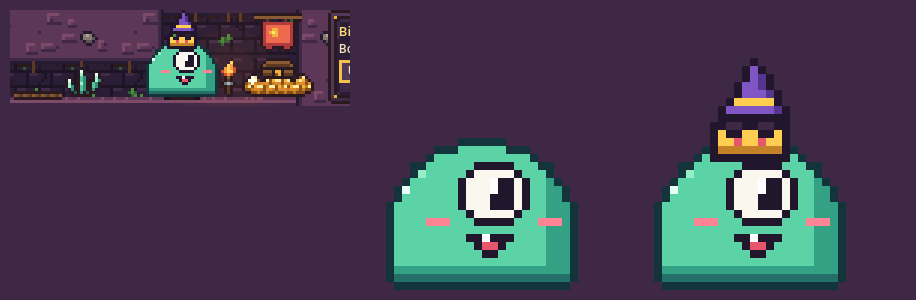
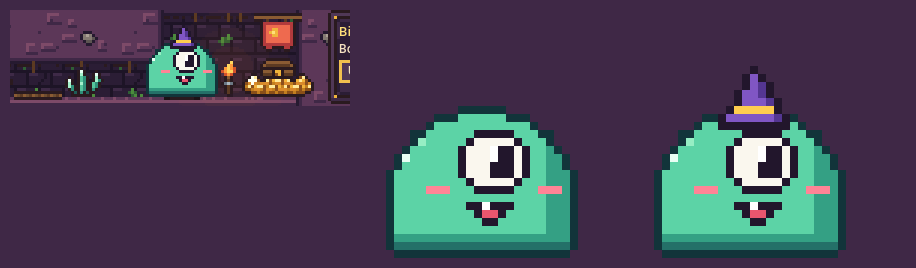
Daan: Gloop groot met alleen de grote puntmuts (kroon las als gezichtje), kijker ronde 4 letterlijk, logboek
Claude-Session: https://claude.ai/code/session_01RMWUyjPAKeKv44onfpL7sx

Changed region(s): [[0.0, 0.0299, 0.3974, 0.4179], [0.7031, 0.1791, 0.9476, 0.9851], [0.3974, 0.3881, 0.6419, 0.9851]]

diff --git a/ontwerp/steam/gloop/maak_kijker.py b/ontwerp/steam/gloop/maak_kijker.py
@@ -12,7 +12,7 @@ os.makedirs(os.path.join(HIER, 'kijker'), exist_ok=True)
 for k, c in crops.items():
     g = oud if k == 'nu' else (lambda q: q.crop((0, 0, q.width // 6, q.height)))(Image.open(os.path.join(HIER, f'gloop_{k}.png')))
     import maak_gloop as mg
-    t = mb.met_toren(g, [mg.hoed_beeld('kroon'), mg.hoed_beeld('puntmuts')], 2) if k == 'B' else mb.met_toren(g, keuze, 3)
+    t = mb.met_toren(g, [mg.hoed_beeld('puntmuts')], 1) if k == 'B' else mb.met_toren(g, keuze, 3)
     big = [x.resize((x.width * 8, x.height * 8), Image.NEAREST) for x in (g, t)]
     out = Image.new('RGB', (W + 40 + sum(b.width for b in big) + 40, max(H, max(b.height for b in big)) + 20), (63, 40, 70))
     out.paste(c, (10, 10)); x = W + 30

diff --git a/ontwerp/steam/gloop/maak_blad.py b/ontwerp/steam/gloop/maak_blad.py
@@ -37,7 +37,7 @@ def blad():
     for v, naam in (("A", "A druppel"), ("B", "B groot"), ("C", "C gelei")):
         s = Image.open(os.path.join(HIER, f"gloop_{v}.png"))
         fw = s.width // 6; fh = s.height; rust = s.crop((0, 0, fw, fh)); hap = s.crop((4 * fw, 0, 5 * fw, fh)); kauw = s.crop((5 * fw, 0, 6 * fw, fh))
-        toren = met_toren(rust, [mg.hoed_beeld("kroon"), mg.hoed_beeld("puntmuts")], 2) if v == "B" else met_toren(rust, keuze, 3)
+        toren = met_toren(rust, [mg.hoed_beeld("puntmuts")], 1) if v == "B" else met_toren(rust, keuze, 3)
         kol.append((naam, [rust, hap, kauw, toren]))
     W = 1500; H = 900
     out = Image.new("RGB", (W, H), BG2); d = ImageDraw.Draw(out)

diff --git a/ontwerp/steam/gloop/maak_strook.py b/ontwerp/steam/gloop/maak_strook.py
@@ -25,8 +25,8 @@ for v in "ABC":
     rust = st.crop((0, 0, st.width // 6, st.height))
     rijen.append((v, met(rust)))
     if v == "B":
-        groot = [mg.hoed_beeld("kroon"), mg.hoed_beeld("puntmuts")]
-        rijen.append((v + "+toren", met(mb.met_toren(rust, groot, 2))))
+        groot = [mg.hoed_beeld("puntmuts")]
+        rijen.append((v + "+toren", met(mb.met_toren(rust, groot, 1))))
     else:
         rijen.append((v + "+toren", met(mb.met_toren(rust, keuze, 3))))
 W = (X1 - X0); H = (Y1 - Y0)

diff --git a/ontwerp/steam/gloop/kijkers.md b/ontwerp/steam/gloop/kijkers.md
@@ -88,3 +88,14 @@ B is nu **Gloop groot**: frame 28 x 22, lijf 24 x 19 spelpixels (±57 schermpixe
 
 ## Nawerk zelfde run (Daan)
 Punt 1 en 4 uit "Stand na ronde 3" gedaan: eigen Gloop-hoeden een maat groter (`GLOOP_HOEDEN` in `maak_gloop.py`: kroon 10x5, puntmuts 9x8, koksmuts 9x7); op de grote Gloop passen er twee in de kamer van 32 spelpixels (kroon met puntmuts erop, kroonpunten zichtbaar), de rest gaat naar de hoedenberg. Kijkerplaatjes zonder de runnertekst bovenaan. Nog niet opnieuw door een frisse kijker bekeken; dat is stap 1 van de volgende run, samen met contrast tegen pruim.
+
+# Ronde 4 (Daan, zelfde run): B groot met kroon en grote puntmuts
+Eén nieuwe agent, alleen B. Letterlijk:
+
+1. Rechterhelft: een mintgroen slijmwezen (slime) in de vorm van een bolle druppel of koepel, met één groot oog in het midden. Het oog is wit met een zwarte pupil en een klein wit glansje. Het heeft een klein mondje met een roze tongetje en roze blosjes op de wangen. Bovenop zit een klein donker figuurtje, met gele en oranje accenten, dat een paarse heksenhoed met gele band draagt. Wat dat figuurtje precies is, zie ik niet goed: een zwart blokje met een geel gezichtje of hoed-rand.
+2. Ja, links zit hetzelfde wezen, midden in de strook, naast een brandende toorts, een stapel goud en een rode hangende bordje, in een grot- of kerkerachtige omgeving. Op ware grootte herken ik: de mintgroene bol, het ene oog, de blosjes en de paarse hoed. Dat leest dus goed. Niet te herkennen: het mondje en tongetje zijn bijna alleen een paar pixels, en het figuurtje onder de hoed is een onduidelijk donker blokje met geel. Of het een gezichtje of een hoedrand is, kan ik zo klein niet zien.
+3. Een 7 of 8. Het cyclopen-oog met blosjes en de heksenhoed is erg lief en duidelijk herkenbaar. Het blijft wel een standaard schattig slijmpje. Ja, als klein maatje op mijn scherm zou ik het willen hebben, vooral omdat de hoed een eigen karakter geeft.
+4. Het meest storend is het donkere blok tussen hoed en slijmkop: het ziet eruit als een zwart gezicht of een tweede wezen dat boven op het slijm zit, en dat leest vreemd of een beetje eng, zeker met die gele streep die op tanden of een grijns kan lijken. Op ware grootte is dat deel een vlek. Verder staat de hoed op een apart blokje en lijkt hij niet goed aan het hoofd vast te zitten. Ook het oog is wat groot en strak, waardoor het soms starend overkomt, en het mondje is erg klein.
+
+## Wat ik deed (Daan)
+De kroon leest als "zwart gezichtje met grijns" (donkere rand plus rode steentjes). Koksmuts eronder geprobeerd: leest als schedel of stapel. Daarom staat er nu op B alleen de grote puntmuts (schoon, GEZIEN in `kijker/B.png`). **De toren voor de grote Gloop is nog niet opgelost**: volgende run hoeden zonder donkere binnenrand tekenen (alleen een buitenrand), kroon zonder rode steentjes, en twee hoeden toetsen. Ook nog: contrast tegen pruim en de groene plantjes, en het oog iets minder strak (pupil kleiner of het oog 1 px lager zodat de bovenkant van het lijf als "voorhoofd" leest).

diff --git a/ontwerp/logboek.md b/ontwerp/logboek.md
@@ -786,3 +786,4 @@ Bekeken: alle e2e-beelden van run 42940068326 op negen horloges en de plaatjes v
 
 ## 13 nov 2026, ±11:25 tot 11:45 UTC (Daan, geplande run): Gloop, opdracht hoofdchat 12:00 NL
 Bekeken: de echte strook van 120 px (run 43415980604, commit 92884c4, `schermen/steam-hol/main/strook-120.png`), winkelplaatjes van Rusty's Retirement en Ropuka's Idle Island uit de Steam-API (op ware grootte: Rusty's figuren ±25 px, Ropuka ±100 px). Gemaakt: `ontwerp/steam/gloop/` met `maak_gloop.py` (drie versies uit code, rust 4 beelden, hap, kauw), werkblad, de versies in de echte strook op ware grootte (`strook-ware-grootte.png`), vergelijking met de twee toppers. Drie rondes frisse kijkers (8 agents die alleen het plaatje kregen), antwoorden letterlijk in `ontwerp/steam/gloop/kijkers.md`. Gevonden: herkennen lukt altijd ("slijm met één oog met hoeden"), maar schattig bleef een 7 zolang Gloop 13 spelpixels hoog is: het gezicht leest dan niet op ware grootte. Gloop groot (24 x 19) kreeg de eerste 8. Besloten: richting groot; nog niet naar Thijs. Volgende run: hoeden een maat groter, contrast tegen pruim, dan het blad voor Thijs (doel vr 20 nov).
+Aanvulling zelfde run: eigen Gloop-hoeden een maat groter gemaakt; kroon en koksmuts lazen bij de frisse kijker als "zwart gezichtje" en "schedel", dus nu alleen de grote puntmuts op Gloop groot. Ronde 4 letterlijk in `kijkers.md`. Volgende run eerst: hoedentoren voor de grote Gloop (hoeden zonder donkere binnenrand), contrast, oog minder strak, dan blad voor Thijs.
